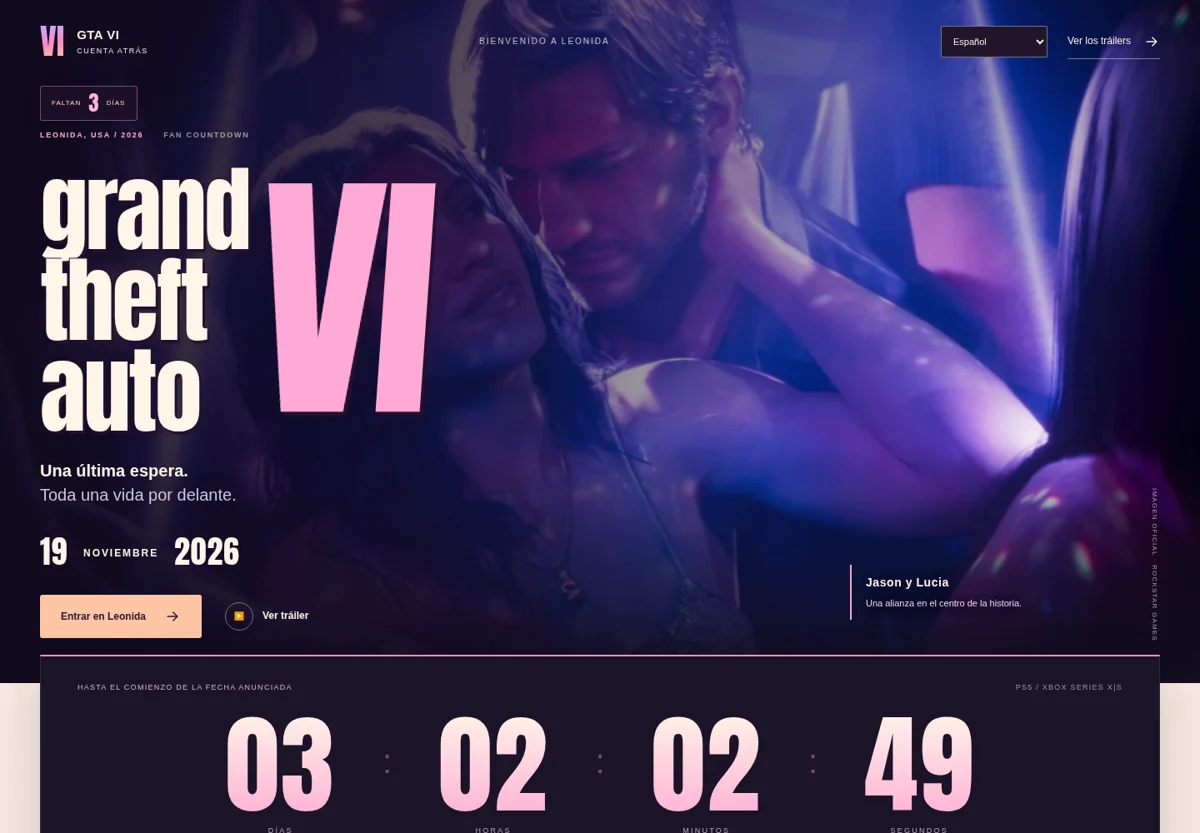
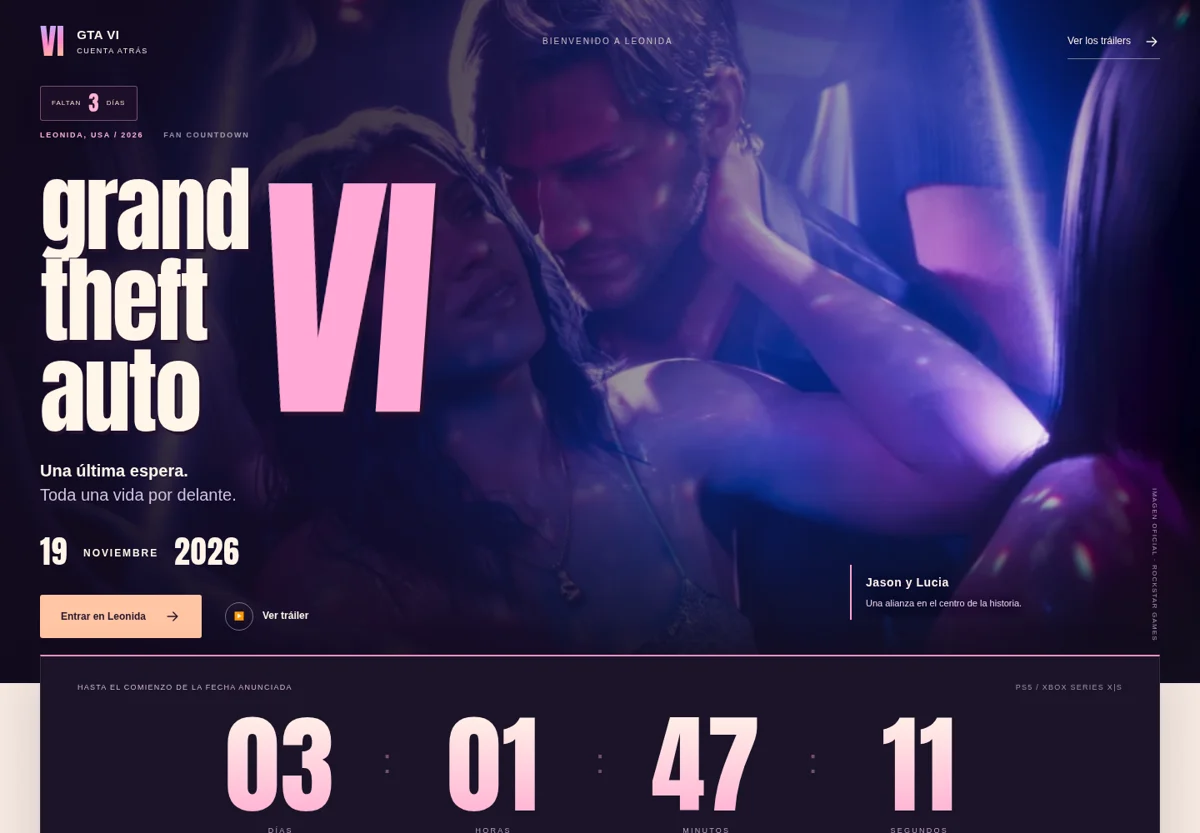
Refresh GTA automatic language and shared cards preview

diff --git a/index.html b/index.html
@@ -52,7 +52,7 @@
         <div class="featured-content"><p class="eyebrow"><time datetime="2026">2026</time> · SEGUIMIENTO DE ENVÍOS</p><h3 id="tramo-titulo">Tus paquetes,<br>en cada tramo.</h3><p>Tramo reúne tus envíos en un solo lugar. Consulta rápida, un espacio personal y una demo para explorar cada paso del recorrido.</p><ul class="tags" aria-label="Funciones de Tramo"><li>Seguimiento</li><li>Paquetes</li><li>Demo interactiva</li></ul><a class="button" href="https://tramo.nmclabs.dev/" target="_blank" rel="noopener noreferrer">Descubrir Tramo <span aria-hidden="true"><svg class="icon-arrow" viewBox="0 0 24 24" fill="none" aria-hidden="true"><path d="m6 18 12-12M6 6h12v12" stroke="currentColor" stroke-width="1.7" stroke-linecap="round" stroke-linejoin="round"/></svg></span></a><details class="project-context"><summary>El contexto del proyecto</summary><div><p><strong>La idea.</strong> Seguir paquetes de distintas compañías desde un único lugar.</p><p><strong>Mi trabajo.</strong> He desarrollado la consulta rápida, un panel personal y una demo con envíos ficticios para explorar la experiencia sin registro.</p></div></details></div>
         <a class="tramo-art" href="https://tramo.nmclabs.dev/" aria-label="Descubrir Tramo" target="_blank" rel="noopener noreferrer"><span class="tramo-art-top">DE UN LUGAR A OTRO. HASTA TI.</span><span class="tramo-wordmark">tramo<span>.</span></span><svg viewBox="0 0 420 100" fill="none" aria-hidden="true"><path d="M30 75C90 75 85 25 160 25S250 75 300 50 340 25 390 25" stroke="currentColor" stroke-width="2" stroke-dasharray="6 6"/><circle cx="30" cy="75" r="6" fill="currentColor"/><circle cx="160" cy="25" r="6" fill="currentColor"/><circle cx="300" cy="50" r="6" fill="currentColor"/><circle cx="390" cy="25" r="10" fill="#df6035"/></svg><span class="tramo-art-bottom">Menos pestañas. Más tranquilidad.<span aria-hidden="true"><svg class="icon-arrow" viewBox="0 0 24 24" fill="none" aria-hidden="true"><path d="m6 18 12-12M6 6h12v12" stroke="currentColor" stroke-width="1.7" stroke-linecap="round" stroke-linejoin="round"/></svg></span></span></a>
       </article>
-<section class="current-tools" aria-labelledby="current-tools-title"><header class="current-tools-heading"><div><p class="eyebrow">CREADAS PARA EL MOMENTO</p><h3 id="current-tools-title">Herramientas de actualidad.</h3></div><p>Guías interactivas, cuentas atrás y simulación.<br>Herramientas con sus fuentes enlazadas.</p></header><div class="current-tools-grid"><article class="current-tool"><a class="current-tool-image" href="https://gtacountdown.nmclabs.dev/" target="_blank" rel="noopener noreferrer" aria-label="Abrir GTA VI · Cuenta atrás en una pestaña nueva"><img src="proyectos/gtacountdown-card.webp" width="1200" height="833" alt="GTA VI: nueva portada con Jason y Lucia y cuenta atrás" loading="lazy"></a><div class="current-tool-content"><p class="eyebrow"><time datetime="2026">2026</time> · CUENTA ATRÁS</p><div class="current-tool-heading"><h4>GTA VI · Cuenta atrás</h4><span>19 de noviembre</span></div><p>La espera de GTA VI con 50 escenas, fondos y tarjetas personalizables. Explora Leonida en seis idiomas y guarda tus favoritas.</p><a class="current-tool-link" href="https://gtacountdown.nmclabs.dev/" target="_blank" rel="noopener noreferrer">Ver la cuenta atrás <svg class="icon-arrow" viewBox="0 0 24 24" fill="none" aria-hidden="true"><path d="m6 18 12-12M6 6h12v12" stroke="currentColor" stroke-width="1.7" stroke-linecap="round" stroke-linejoin="round"/></svg><span class="sr-only"> (pestaña nueva)</span></a></div></article><article class="current-tool"><a class="current-tool-image" href="https://29n.nmclabs.dev/" target="_blank" rel="noopener noreferrer" aria-label="Abrir 29N en una pestaña nueva"><img src="proyectos/29n-card.webp" width="1200" height="833" alt="29N: laboratorio D’Hondt con votos, barrera electoral y reparto paso a paso" loading="lazy"></a><div class="current-tool-content"><p class="eyebrow"><time datetime="2026">2026</time> · CALENDARIO ELECTORAL</p><div class="current-tool-heading"><h4>29N</h4><span>29 de noviembre</span></div><p>Pactómetro, referencia del 23J y laboratorio D’Hondt paso a paso. Compara escenarios y aprende cómo se reparten los escaños.</p><a class="current-tool-link" href="https://29n.nmclabs.dev/" target="_blank" rel="noopener noreferrer">Explorar el 29N <svg class="icon-arrow" viewBox="0 0 24 24" fill="none" aria-hidden="true"><path d="m6 18 12-12M6 6h12v12" stroke="currentColor" stroke-width="1.7" stroke-linecap="round" stroke-linejoin="round"/></svg><span class="sr-only"> (pestaña nueva)</span></a></div></article></div></section>
+<section class="current-tools" aria-labelledby="current-tools-title"><header class="current-tools-heading"><div><p class="eyebrow">CREADAS PARA EL MOMENTO</p><h3 id="current-tools-title">Herramientas de actualidad.</h3></div><p>Guías interactivas, cuentas atrás y simulación.<br>Herramientas con sus fuentes enlazadas.</p></header><div class="current-tools-grid"><article class="current-tool"><a class="current-tool-image" href="https://gtacountdown.nmclabs.dev/" target="_blank" rel="noopener noreferrer" aria-label="Abrir GTA VI · Cuenta atrás en una pestaña nueva"><img src="proyectos/gtacountdown-card.webp" width="1200" height="833" alt="GTA VI: nueva portada con Jason y Lucia y cuenta atrás" loading="lazy"></a><div class="current-tool-content"><p class="eyebrow"><time datetime="2026">2026</time> · CUENTA ATRÁS</p><div class="current-tool-heading"><h4>GTA VI · Cuenta atrás</h4><span>19 de noviembre</span></div><p>La espera de GTA VI con 50 escenas, idioma automático y tarjetas compartibles. Explora Leonida, crea fondos y guarda tus favoritas.</p><a class="current-tool-link" href="https://gtacountdown.nmclabs.dev/" target="_blank" rel="noopener noreferrer">Ver la cuenta atrás <svg class="icon-arrow" viewBox="0 0 24 24" fill="none" aria-hidden="true"><path d="m6 18 12-12M6 6h12v12" stroke="currentColor" stroke-width="1.7" stroke-linecap="round" stroke-linejoin="round"/></svg><span class="sr-only"> (pestaña nueva)</span></a></div></article><article class="current-tool"><a class="current-tool-image" href="https://29n.nmclabs.dev/" target="_blank" rel="noopener noreferrer" aria-label="Abrir 29N en una pestaña nueva"><img src="proyectos/29n-card.webp" width="1200" height="833" alt="29N: laboratorio D’Hondt con votos, barrera electoral y reparto paso a paso" loading="lazy"></a><div class="current-tool-content"><p class="eyebrow"><time datetime="2026">2026</time> · CALENDARIO ELECTORAL</p><div class="current-tool-heading"><h4>29N</h4><span>29 de noviembre</span></div><p>Pactómetro, referencia del 23J y laboratorio D’Hondt paso a paso. Compara escenarios y aprende cómo se reparten los escaños.</p><a class="current-tool-link" href="https://29n.nmclabs.dev/" target="_blank" rel="noopener noreferrer">Explorar el 29N <svg class="icon-arrow" viewBox="0 0 24 24" fill="none" aria-hidden="true"><path d="m6 18 12-12M6 6h12v12" stroke="currentColor" stroke-width="1.7" stroke-linecap="round" stroke-linejoin="round"/></svg><span class="sr-only"> (pestaña nueva)</span></a></div></article></div></section>
       <div class="archive-heading"><h3>Donde empezó todo</h3><p>Mis primeras webs, con su año de origen y nuevas formas de revisitarlas.</p></div>
       <div class="project-grid">
 <article class="project-lineage" aria-label="Tinyspace: original y rediseño del mismo proyecto"><header class="lineage-heading"><div><h3>Tinyspace</h3><p>Del primer catálogo de mobiliario a una tienda que permite probar sus muebles a escala.</p></div><span class="lineage-years"><time datetime="2022">2022</time><span aria-hidden="true">→</span><time datetime="2026">2026</time></span></header><div class="lineage-versions"><section class="lineage-original"><p class="version-badge">EL ORIGINAL · 2022</p><a class="lineage-image" href="https://tinyspace.nmclabs.dev/" target="_blank" rel="noopener noreferrer" aria-label="Visitar Tinyspace original (pestaña nueva)"><img src="proyectos/tinyspace-original-card.webp" width="1440" height="1000" alt="Tinyspace: versión original" loading="lazy"></a><h4>El primer catálogo.</h4><p>Un concepto de mueblería para practicar HTML, CSS, imágenes y composición.</p><a class="lineage-action" href="https://tinyspace.nmclabs.dev/" target="_blank" rel="noopener noreferrer">Visitar original <svg class="icon-arrow" viewBox="0 0 24 24" fill="none" aria-hidden="true"><path d="m6 18 12-12M6 6h12v12" stroke="currentColor" stroke-width="1.7" stroke-linecap="round" stroke-linejoin="round"/></svg></a></section><section class="lineage-new"><p class="version-badge">EL REDISEÑO · 2026 · NMC LABS</p><a class="lineage-image" href="https://tiny.nmclabs.dev/" target="_blank" rel="noopener noreferrer" aria-label="Explorar Tinyspace rediseñado (pestaña nueva)"><img src="proyectos/tinyspace-redesign-card.webp" width="1440" height="1000" alt="Tinyspace: nueva versión de NMC Labs" loading="lazy"></a><h4>Tienda y plano a medida.</h4><p>Treinta productos, una habitación editable y propuestas para empresas.</p><a class="lineage-action primary" href="https://tiny.nmclabs.dev/" target="_blank" rel="noopener noreferrer">Explorar rediseño <svg class="icon-arrow" viewBox="0 0 24 24" fill="none" aria-hidden="true"><path d="m6 18 12-12M6 6h12v12" stroke="currentColor" stroke-width="1.7" stroke-linecap="round" stroke-linejoin="round"/></svg></a></section></div><footer class="lineage-footer"><span>Un mismo proyecto. Dos etapas.</span><a href="proyectos/tinyspace.html">Ver su historia y evolución <span aria-hidden="true">→</span></a></footer></article>
